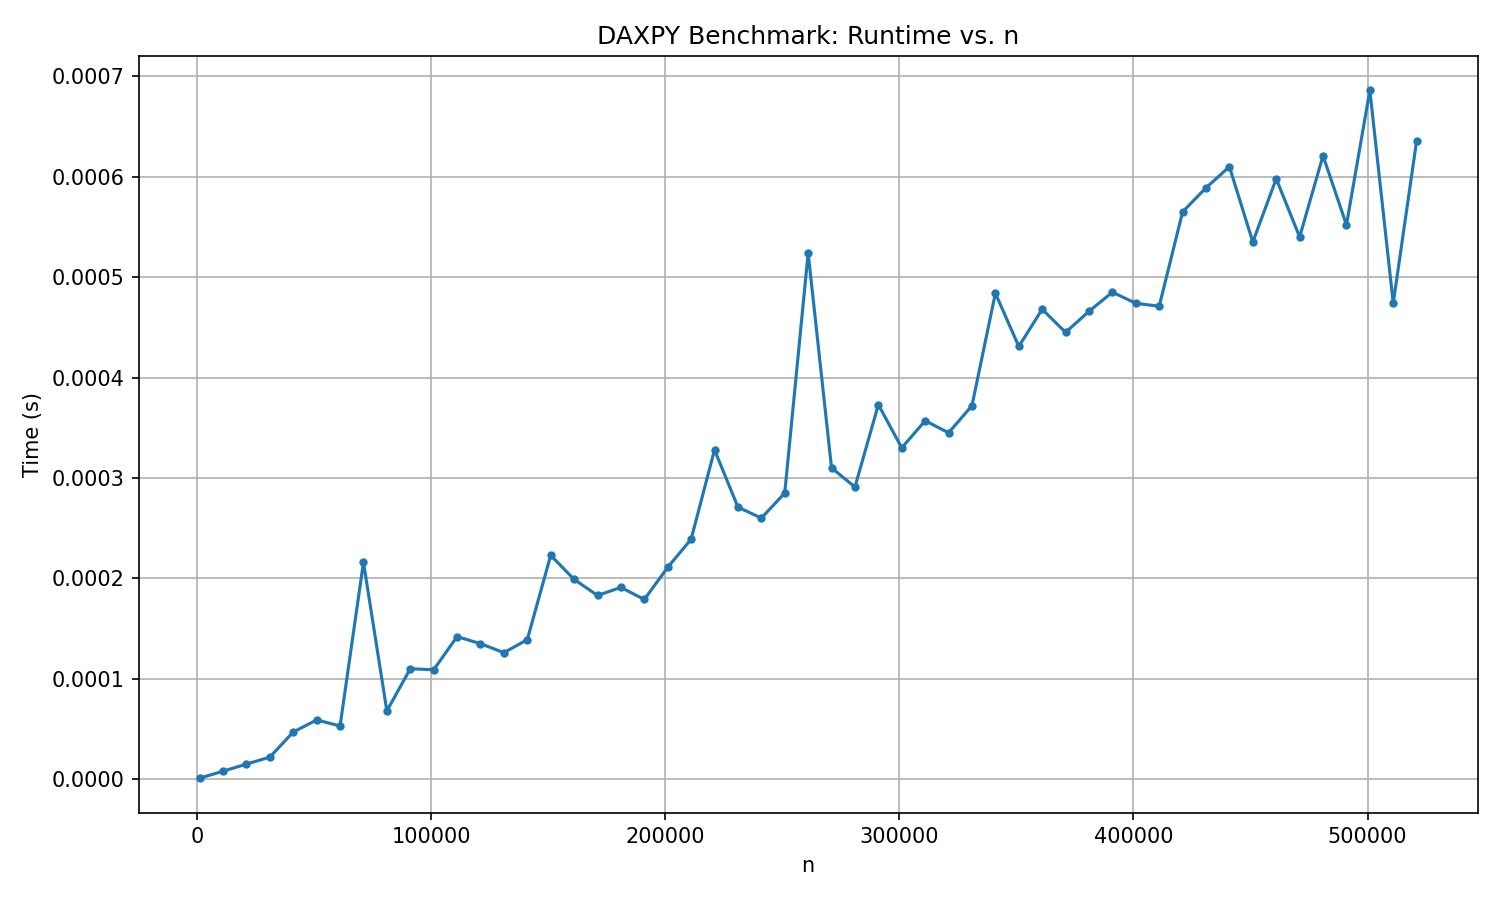
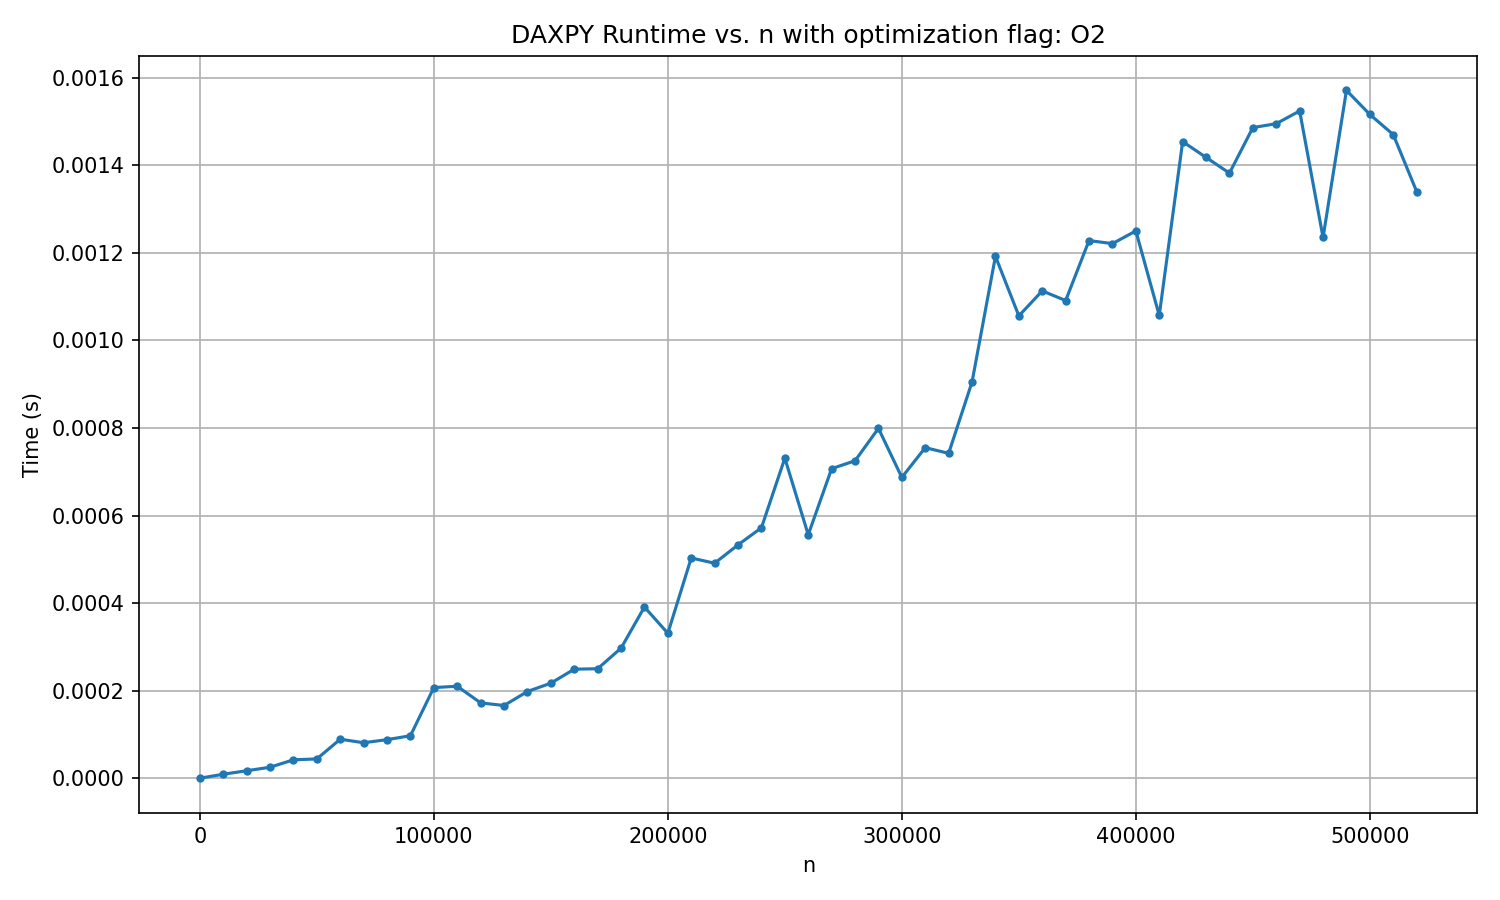
added make excercises command to plot all excercises

diff --git a/assignment2/plot_benchmark.py b/assignment2/plot_benchmark.py
@@ -5,15 +5,39 @@ import argparse
 parser = argparse.ArgumentParser()
 parser.add_argument("-i", "--input", default="results.csv", help="CSV input file")
 parser.add_argument("-o", "--output", default=None, help="Save plot to file (optional)")
+parser.add_argument("-a", "--args", default="1", help="how many args are passed to the c file")
+parser.add_argument("-O", "--optimization", default="O0", help="what optimization flag was used")
 args = parser.parse_args()
 
+match args.args:
+    case "1":
+        titlePrefix = "DAXPY"
+    case "2":
+        titlePrefix = "VectrorXMatrix"
+    case "3":
+        titlePrefix = "MatrixXMatrix"
+    case _:
+        titlePrefix = ""
+        
+match args.optimization:
+    case "O0":
+        optInfo = "with optimization flag: O0"
+    case "O1":
+        optInfo = "with optimization flag: O1"
+    case "O2":
+        optInfo = "with optimization flag: O2"
+    case "O3":
+        optInfo = "with optimization flag: O3"
+    case _:
+        optInfo = ""
+        
 df = pd.read_csv(args.input)
 
 plt.figure(figsize=(10, 6))
 plt.plot(df["n"], df["time_spent"], marker="o", linewidth=1.5, markersize=3)
 plt.xlabel("n")
 plt.ylabel("Time (s)")
-plt.title("DAXPY Benchmark: Runtime vs. n")
+plt.title(f"{titlePrefix} Runtime vs. n {optInfo}")
 plt.grid(True)
 plt.tight_layout()
 
